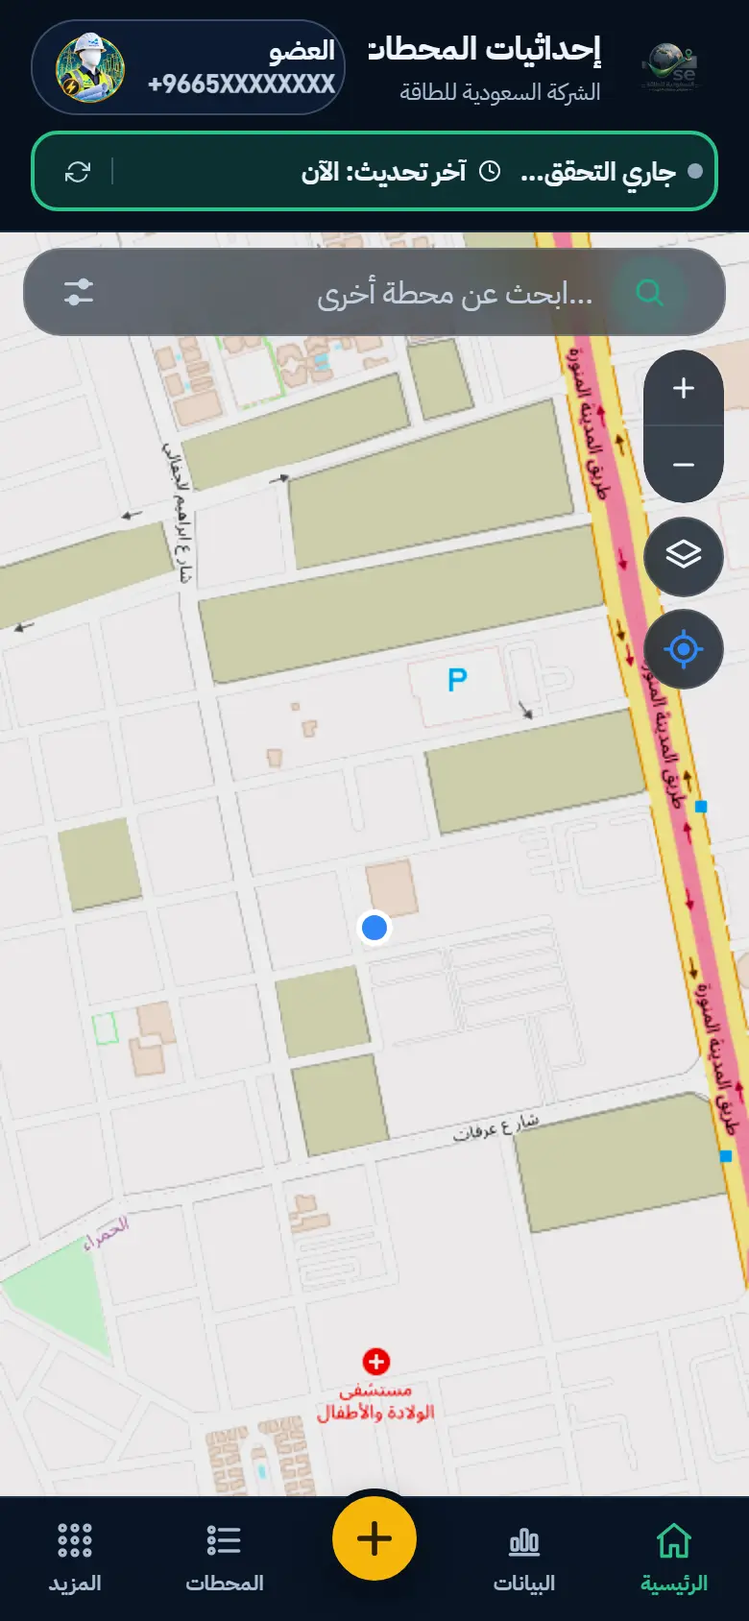
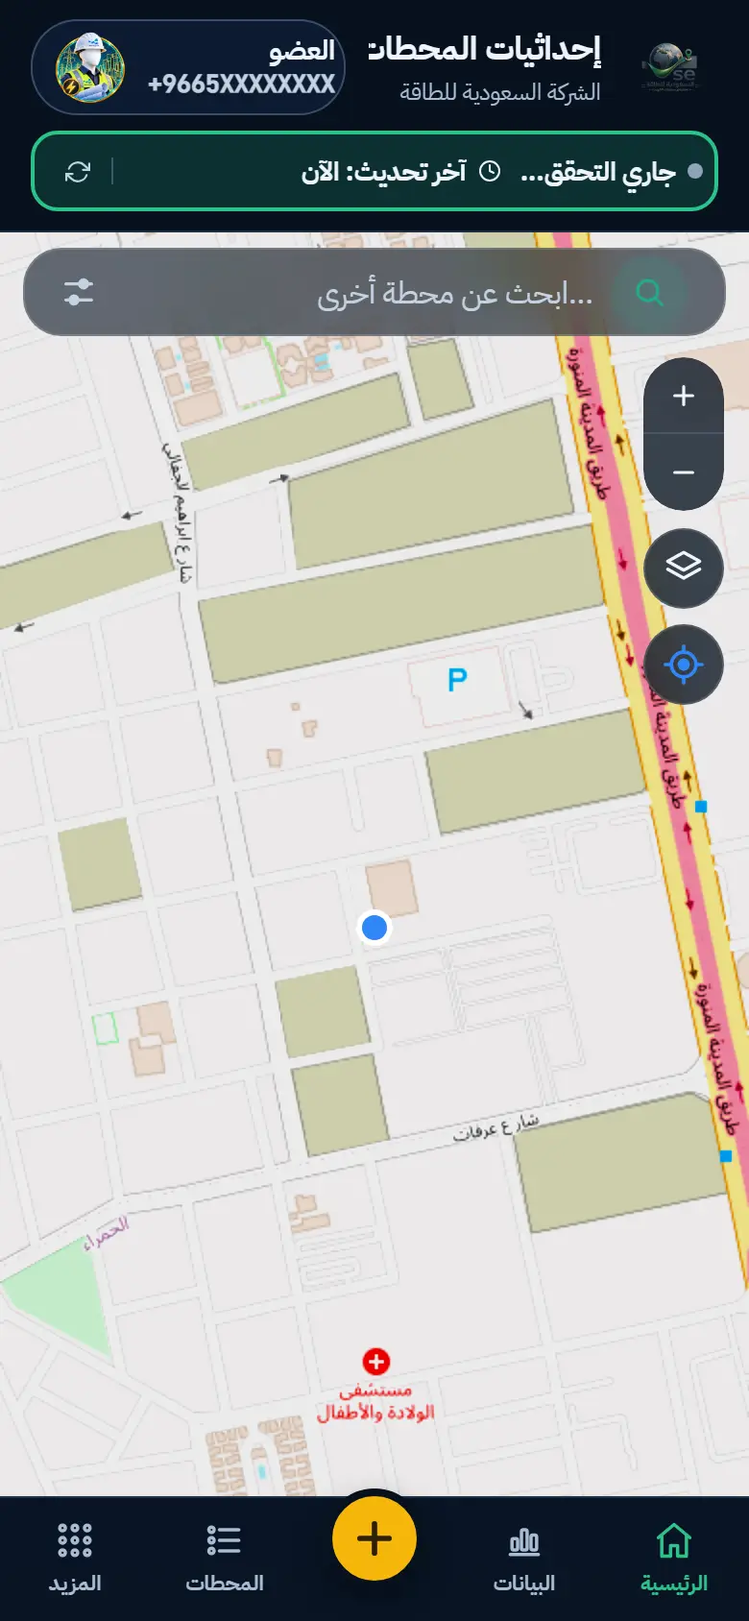
إعادة التصميم — مراجعة الاستخدام الميداني: بطاقة أقصر، عمود جانبي متكيّف، والمحطة لا تختفي
- البطاقة 158–165 نقطة (كانت 191): بلا مقبض، ومدة البحث شارة قصيرة في الرأس (الجملة الكاملة في title)، وحشو أقل
- «المسار» الأعرض والأبرز، و«تعديل» و«حذف» بمظهر هادئ، ومساحة اللمس ≥ 46
- العمود الجانبي عمود واحد بين ما يطفو أعلى الخريطة (البحث أو صف الأدوات) والبطاقة؛ عند الضيق يُخفى «+ / −» (التكبير
  بإصبعين) ثم زر الملاحة (المسار في البطاقة) — لا زر مغطى ولا تداخل مع الأدوات
- إعادة توسيط المحطة تلقائيًا حين يتغير ما يغطي الخريطة (الأدوات، اللوحات، البطاقة، التدوير) ما لم يحرّكها المستخدم
- البطاقة بعرض صحيح (width:auto) بهامشين متساويين؛ الجولة والاختبارات محدّثة

Changed region(s): [[0.8615, 0.2773, 0.9846, 0.4621], [0.8615, 0.2156, 0.9538, 0.2464]]

diff --git a/styles/home.css b/styles/home.css
@@ -294,7 +294,7 @@ body:not(.nav-full) .view-map .map-mode-panel,body:not(.nav-full) .view-map .map
 /* التكبير والتنبيه فوق البطاقة دائمًا — zoom and the toast always above the card */
 body:not(.nav-full) .view-map .map-toast{bottom:calc(var(--sheet-h, 0px) + 16px);}
 /* بطاقة المحطة عائمة أسفل الخريطة بخلفية زجاجية — the station card floats at the bottom on glass */
-body:not(.nav-full) .view-map .station-sheet{position:absolute;left:8px;right:8px;bottom:8px;margin:0;z-index:20;max-height:56%;overflow-y:auto;overscroll-behavior:contain;
+body:not(.nav-full) .view-map .station-sheet{position:absolute;left:8px;right:8px;width:auto;bottom:8px;margin:0;z-index:20;max-height:56%;overflow-y:auto;overscroll-behavior:contain;
   background:var(--glass-strong);border:1px solid var(--glass-line);-webkit-backdrop-filter:blur(16px) saturate(1.25);backdrop-filter:blur(16px) saturate(1.25);} /* أوضح فوق الخريطة النهارية / clearer over the day map */
 body:not(.nav-full) .view-map .station-sheet .sheet-meta{background:var(--glass-strong);border-color:var(--glass-line);}
 body:not(.nav-full) .view-map .station-sheet .sheet-foot{border-top-color:var(--glass-line);}
@@ -312,12 +312,17 @@ body:not(.nav-full) .view-map .toolbar-btn[data-tools="more"] .tb-icon{display:i
    أسفل يمين الخريطة فوق البطاقة. أدوات الشريط (قريب، مغذي، أعطال، ⋯) مطوية خلف «الأدوات» فلا تُحذف أي ميزة.
    Home = the map: a glass button column on the right under the search (direct navigation when a station is chosen, zoom,
    layers, tools) and «my location» bottom-right above the card. The toolbar tools fold behind «tools», no feature lost. */
-body:not(.nav-full) .view-map .map-stage-slot .globe-stage.map-active{padding-right:66px;}
+/* الأدوات واللوحات بعرض الخريطة كله؛ العمود الجانبي يبدأ تحتها (map-view fitSide) — the tools and panels take the full width; the column starts below them */
+body:not(.nav-full) .view-map .map-stage-slot .globe-stage.map-active{padding-right:12px;}
 /* العمود محصور بين البحث والبطاقة (نموذج محمد 20 أكتوبر): لا يُغطّى أبدًا؛ إن ضاقت المساحة تلتف الأزرار الزائدة إلى عمود ثانٍ
    بجانبه (يسارًا) بدل أن تختفي خلف البطاقة — the column is bounded between the search and the card: never covered; when short,
    the extra buttons wrap into a second column beside it (to the left) instead of hiding behind the card */
-body:not(.nav-full) .view-map .map-side{display:flex;flex-direction:column;flex-wrap:wrap;align-content:flex-start;align-items:center;gap:6px;position:absolute;
-  top:calc(var(--search-h, 46px) + 14px);bottom:calc(var(--sheet-h, 0px) + 10px);right:12px;z-index:12;}
+body:not(.nav-full) .view-map .map-side{display:flex;flex-direction:column;flex-wrap:nowrap;align-items:center;gap:8px;position:absolute;
+  top:calc(var(--search-h, 46px) + 14px);bottom:calc(var(--sheet-h, 0px) + 10px);right:12px;z-index:12;pointer-events:none;}
+body:not(.nav-full) .view-map .map-side > *{pointer-events:auto;}
+/* المساحة ضيقة: «+ / −» ثم زر الملاحة يُخفيان (map-view fitSide) — short space: «+ / −», then the navigation button, hide */
+body:not(.nav-full) .view-map .globe-stage.side-no-zoom .map-side .zoom-controls,
+body:not(.nav-full) .view-map .globe-stage.side-no-nav .map-side .side-nav{display:none;}
 body:not(.nav-full) .view-map .side-btn{display:flex;align-items:center;justify-content:center;width:42px;height:42px;padding:0;border-radius:50%;cursor:pointer;
   background:var(--glass-strong);border:1px solid var(--glass-line);color:var(--text-primary);-webkit-backdrop-filter:blur(12px);backdrop-filter:blur(12px);}
 body:not(.nav-full) .view-map .side-btn[hidden]{display:none;}
@@ -335,3 +340,5 @@ body:not(.nav-full) .view-map .map-side .zoom-controls{position:static;display:f
 body:not(.nav-full) .view-map .map-side .zoom-btn{width:42px;height:40px;background:var(--glass-strong);-webkit-backdrop-filter:blur(12px);backdrop-filter:blur(12px);}
 body:not(.nav-full) .view-map .map-locate{color:#2F86F6;}
 body:not(.nav-full) .view-map .globe-stage:not(.tools-open) .map-toolbar-bar{display:none;}
+body:not(.nav-full) .view-map .globe-stage.map-active > .map-side{pointer-events:none;} /* الشريط الفارغ بين الأزرار يمرّر السحب للخريطة / the empty strip passes drags to the map */
+body:not(.nav-full) .view-map .map-side > *{flex-shrink:0;} /* لا تنضغط الأزرار؛ الضيق يُعالج بإخفاء «+ / −» ثم الملاحة / buttons never squeeze; short space hides «+ / −», then navigation */

diff --git a/config/جولة_تعريفية.js b/config/جولة_تعريفية.js
@@ -34,13 +34,13 @@
       { img: 'assets/tour/06-state-offline.webp', rect: { x: 0, y: 68, w: 390, h: 52 },
         title: '🔴 أحمر: لا يوجد اتصال بالإنترنت',
         text: 'إذا انقطع الإنترنت يتحول الشريط إلى الأحمر ويذكر آخر وقت حُدّثت فيه نسختك — والبحث والخريطة والملاحة تعمل منها.\nوإن لم تكن على الجهاز نسخة يقول ذلك صراحة: «لا توجد نسخة ولا يوجد إنترنت».' },
-      { img: 'assets/tour/07-search-server.webp', rect: { x: 5, y: 736, w: 364, h: 25 },
+      { img: 'assets/tour/07-search-server.webp', rect: { x: 19, y: 609, w: 93, h: 17 },
         title: '⏱ البحث قبل تحميل النسخة',
-        text: 'قبل اكتمال النسخة يذهب البحث إلى الخادم وينتظر رده — وتظهر المدة الفعلية ومصدرها أسفل بطاقة المحطة.\nوبدون إنترنت لا يمكن البحث قبل تحميل النسخة.' },
-      { img: 'assets/tour/08-search-local.webp', rect: { x: 5, y: 736, w: 364, h: 25 },
+        text: 'قبل اكتمال النسخة يذهب البحث إلى الخادم وينتظر رده — وتظهر المدة الفعلية ومصدرها «الخادم» في رأس بطاقة المحطة.\nوبدون إنترنت لا يمكن البحث قبل تحميل النسخة.' },
+      { img: 'assets/tour/08-search-local.webp', rect: { x: 19, y: 609, w: 105, h: 17 },
         title: '⚡ البحث بعد تحميل النسخة',
-        text: 'بعد التحميل تظهر النتيجة من جهازك في جزء من الألف من الثانية — «من نسخة جهازك» — حتى بدون إنترنت.\nوالنسخة تتحدث تلقائيًا بتغييرات الزملاء.' },
-      { img: 'assets/tour/09-station-sheet.webp', rect: { x: 0, y: 550, w: 382, h: 222 }, point: { x: 6, y: 626, w: 121, h: 44 },
+        text: 'بعد التحميل تظهر النتيجة من جهازك في جزء من الألف من الثانية — «⚡ … ث · جهازك» في رأس البطاقة — حتى بدون إنترنت.\nوالنسخة تتحدث تلقائيًا بتغييرات الزملاء.' },
+      { img: 'assets/tour/09-station-sheet.webp', rect: { x: 8, y: 600, w: 374, h: 172 }, point: { x: 20, y: 668, w: 117, h: 39 },
         title: '📍 بطاقة المحطة فوق الخريطة',
         text: 'الخريطة بكامل الصفحة والمحطة في منتصف الجزء الظاهر منها، وأسفلها بطاقة مختصرة: النوع والرقم، والمغذي والمنطقة وعدد محطات المغذي، وصف أزرار المسار وقوقل ماب والمشاركة والتعديل.\nاضغط «عدد محطات المغذي» لتظهر على الخريطة، و«آخر تحديث» للنسخة تجده في «التفاصيل».' },
       { img: 'assets/tour/10-details.webp', rect: { x: 16, y: 279, w: 358, h: 52 },
@@ -52,10 +52,10 @@
       { img: 'assets/tour/12-outages-input.webp', rect: { x: 16, y: 455, w: 358, h: 285 }, point: { x: 261, y: 455, w: 113, h: 96 },
         title: '⚡ بحث الأعطال: أرقام عدة محطات',
         text: 'في «البيانات» اضغط بطاقة «الأعطال»، فتظهر تحتها خانة الأرقام.\nاكتب أرقام المحطات التي فيها العطل (حتى 15 محطة) وافصل بينها بمسافة أو فاصلة، ثم اضغط بحث.' },
-      { img: 'assets/tour/13-outages-map.webp', rect: { x: 79, y: 219, w: 178, h: 33 },
+      { img: 'assets/tour/13-outages-map.webp', rect: { x: 106, y: 219, w: 178, h: 33 },
         title: '🗺 نتيجة بحث الأعطال على الخريطة',
         text: 'تظهر المحطات بالأحرف A ثم B ثم C بترتيب كتابتك، مع خط يربطها.\nوزر «الانتقال بالترتيب على قوقل ماب» يفتح مسارًا جاهزًا يمر بها كلها.' },
-      { img: 'assets/tour/14-ruler.webp', rect: { x: 12, y: 226, w: 312, h: 96 },
+      { img: 'assets/tour/14-ruler.webp', rect: { x: 12, y: 226, w: 366, h: 96 },
         title: '📐 قياس المسافة على الخريطة',
         text: 'اضغط أيقونة الأدوات في طرف مربع البحث، ثم «⋯» في صف الأدوات، ثم «📐 قياس المسافة».\nثم اضغط على نقطتين أو أكثر في الخريطة، فيظهر طول كل جزء والمسافة الإجمالية.' },
       { img: 'assets/tour/15-nav-online.webp', rect: { x: 0, y: 708, w: 390, h: 136 },

diff --git a/components/map-view.js b/components/map-view.js
@@ -91,7 +91,7 @@
    *   onNavigate() (زر الملاحة في العمود)، onLocate() (زر «موقعي»)، onOverlayChange() (فتح/طي الأدوات)، now() للاختبار }
    * يُرجع { map، mode()، resolvedMode()، setMode(m)، showStation(s)، clearStation()، tools (مكان الأزرار)، panels،
    *   hint(text)، hideHint()، toast(text)، usingOffline()، refresh()، destroy()، setInsets(top, bottom)، centerOn(latlng, zoom, fly)،
-   *   fitPadding(pad)، insets()، showMe(pos)، setNavTarget(on)، toggleTools(open) }
+   *   fitPadding(pad)، insets()، showMe(pos)، setNavTarget(on)، toggleTools(open)، recenter()، fitSide(topMin, bottom) }
    */
   function mount(stage, opts) {
     const o = opts || {};
@@ -199,9 +199,34 @@
       const i = current_(), dy = (i.bottom - i.top) / 2;
       return dy ? map.unproject(map.project(latlng, zoom).add([0, dy]), zoom) : L.latLng(latlng);
     }
+    /* النقطة المتوسَّطة تبقى في منتصف المساحة المرئية كلما تغيّر ما يغطي الخريطة (فتح الأدوات، تغيّر البطاقة، تدوير الجوال)،
+     * إلا إذا حرّك المستخدم الخريطة بنفسه بعدها — the centered point stays mid visible area whenever what covers the map changes,
+     * unless the user moved the map since */
+    let focus = null, internal = false;
+    const FLY_MS = 1600;
+    map.on('movestart', function () { if (!internal) focus = null; });
+    function move_(fn) { internal = true; try { fn(); } finally { internal = false; } }
     function centerOn(latlng, zoom, fly) {
       const z = zoom == null ? map.getZoom() : zoom, c = visibleCenter_(latlng, z);
-      if (fly) map.flyTo(c, z, { duration: 1.4 }); else map.setView(c, z);
+      move_(function () { if (fly) map.flyTo(c, z, { duration: 1.4 }); else map.setView(c, z); });
+      focus = { ll: L.latLng(latlng), t: Date.now() };
+    }
+    function recenter() {
+      if (!focus || Date.now() - focus.t < FLY_MS) return; // أثناء الطيران لا يُقاطَع / never cuts a fly
+      const z = map.getZoom(), want = map.project(visibleCenter_(focus.ll, z), z), now = map.project(map.getCenter(), z);
+      if (want.distanceTo(now) > 3) move_(function () { map.setView(map.unproject(want, z), z, { animate: false }); });
+    }
+    /* العمود الجانبي بين ما يطفو أعلى الخريطة والبطاقة، عمود واحد دائمًا: إن ضاقت المساحة يُخفى «+ / −» أولًا (التكبير بإصبعين
+     * متاح)، ثم زر الملاحة (زر «المسار» في البطاقة) — لا زر يُغطّى ولا عمود ثانٍ فوق الأدوات.
+     * The side column between what floats on top and the card, always one column: when short, «+ / −» hide first (pinch
+     * zoom stays), then the navigation button («route» on the card) — no button covered, no second column over the tools. */
+    function fitSide(topMin, bottom) {
+      const side = q('side');
+      side.style.top = Math.round(Math.max(topMin, overlayTop_() - INSET_GAP + 8)) + 'px';
+      side.style.bottom = Math.round(bottom) + 'px';
+      stage.classList.remove('side-no-zoom', 'side-no-nav');
+      if (side.scrollHeight > side.clientHeight + 1) stage.classList.add('side-no-zoom');
+      if (side.scrollHeight > side.clientHeight + 1) stage.classList.add('side-no-nav');
     }
     /* حشوة fitBounds بما يغطي الخريطة — fitBounds padding including what covers the map */
     function fitPadding(pad) { const p = pad || 0, i = current_(); return { paddingTopLeft: [p, p + i.top], paddingBottomRight: [p, p + i.bottom] }; }
@@ -283,7 +308,7 @@
       map: map, tools: q('tools'), panels: q('panels'),
       mode: function () { return mode; }, resolvedMode: resolved, setMode: setMode, refresh: apply,
       usingOffline: function () { return offlineFlavor !== null; },
-      showStation: showStation, clearStation: clearStation, setInsets: setInsets, centerOn: centerOn, fitPadding: fitPadding,
+      showStation: showStation, clearStation: clearStation, setInsets: setInsets, centerOn: centerOn, fitPadding: fitPadding, recenter: recenter, fitSide: fitSide,
       insets: current_, hint: hint, hideHint: hideHint, toast: toast, showMe: showMe, setNavTarget: setNavTarget,
       toggleTools: toggleTools_,
       destroy: function () {

diff --git a/components/station-card.js b/components/station-card.js
@@ -52,10 +52,13 @@
     // أقل من 1 ملي ثانية يُكتب «أقل من 0.001 ث» بدل «0.000 ث» — under 1 ms reads «under 0.001 s», not «0.000 s»
     // الرقم وحده باتجاه اليسار، والوحدة «ث» بعده بالعربي فيُقرأ «2.56 ث» لا «ث 2.56» — the number alone is LTR, the unit follows in RTL
     const sec = (ms < 1 ? 'أقل من <b dir="ltr">0.001</b>' : '<b dir="ltr">' + (ms / 1000).toFixed(ms < 100 ? 3 : 2) + '</b>') + ' ث';
-    if (s.source === 'local') return '<div class="st-search-time local" data-role="search-time">⚡ وُجدت في ' + sec + ' — من نسخة جهازك</div>';
-    // محطة مضافة حديثًا لم تصل لنسخة الجهاز بعد ← من الخادم مباشرة (النسخة تتحدّث بالخلفية) — newly added, not yet in the copy
-    if (s.newOnServer) return '<div class="st-search-time server" data-role="search-time">⏱ وُجدت في ' + sec + ' — من الخادم (محطة مضافة حديثًا، تُضاف لنسخة جهازك تلقائيًا)</div>';
-    return '<div class="st-search-time server" data-role="search-time">⏱ وُجدت في ' + sec + ' — من الخادم · حمّل البيانات المؤقتة لبحث فوري</div>';
+    // شارة قصيرة في رأس البطاقة (المدة والمصدر)، والجملة الكاملة في title وaria-label — a short chip in the card head, the full sentence in title/aria-label
+    const full = s.source === 'local' ? 'وُجدت في ' + sec.replace(/<[^>]+>/g, '') + ' — من نسخة جهازك'
+      : s.newOnServer ? 'وُجدت في ' + sec.replace(/<[^>]+>/g, '') + ' — من الخادم (محطة مضافة حديثًا، تُضاف لنسخة جهازك تلقائيًا)'
+        : 'وُجدت في ' + sec.replace(/<[^>]+>/g, '') + ' — من الخادم · حمّل البيانات المؤقتة لبحث فوري';
+    const local = s.source === 'local';
+    return '<span class="st-search-time ' + (local ? 'local' : 'server') + '" data-role="search-time" title="' + full + '" aria-label="' + full + '">' +
+      (local ? '⚡ ' : '⏱ ') + sec + ' · ' + (local ? 'جهازك' : 'الخادم') + '</span>';
   }
 
   /* إعادة التصميم — المرحلة ج (19 أكتوبر، نموذج محمد): لوحة مدمجة تحت الخريطة بدل جزأين فوقها وتحتها، فتأخذ الخريطة
@@ -89,13 +92,13 @@
     const coords = Q.hasCoordinates(s), sub = s.type === 'تحويل', kind = sub ? 'is-sub' : 'is-dist';
     const fc = feederCount_(s, deps);
     return '<div class="sb-inner sb-top">' +
-      '<span class="sheet-handle" aria-hidden="true"></span>' +
       '<div class="sheet-head">' +
         '<div class="sheet-line">' +
           '<span class="sheet-badge ' + kind + '" aria-hidden="true">' + (TYPE_ICON[s.type] || TYPE_ICON['توزيع']) + '</span>' +
           '<div class="sheet-title"><span class="sheet-type ' + kind + '">' + (sub ? 'محطة تحويل' : 'محطة توزيع') + '</span>' +
             '<bdi class="sheet-id">' + esc(s.id) + '</bdi></div>' +
-          (deps && deps.onDetails ? '<button type="button" class="sheet-more" data-act="details">التفاصيل ‹</button>' : '') +
+          '<div class="sheet-side">' + searchTime_(s) +
+            (deps && deps.onDetails ? '<button type="button" class="sheet-more" data-act="details">التفاصيل ‹</button>' : '') + '</div>' +
         '</div>' +
         ((s.feeder || s.region || fc != null) ? '<div class="sb-data-row sheet-meta">' +
           (s.feeder ? '<div class="sb-data-cell"><div class="cell-label">المغذي</div><div class="cell-value">' + esc(s.feeder) + '</div></div>' : '') +
@@ -138,7 +141,6 @@
       '</div>' +
       // مدة البحث ومصدره تبقى في البطاقة، و«آخر تحديث» لنسخة المحطات انتقل إلى «التفاصيل» (قرار محمد 20 أكتوبر)
       // The search time/source stays on the card; the copy's «last update» moved to «details» (Mohammed, 20 Oct)
-      (searchTime_(s) ? '<div class="sheet-foot">' + searchTime_(s) + '</div>' : '') +
     '</div>';
   }
 

diff --git a/styles/station-card.css b/styles/station-card.css
@@ -248,3 +248,33 @@ body.nav-full .station-sheet{display:none !important;}
 @media (max-width:359px){ .station-table.station-sheet .sheet-actions .st-btn .st-lbl{font-size:10.5px;} }
 .station-sheet .sheet-foot{margin-top:6px;padding-top:6px;}
 .station-sheet .sheet-foot .st-search-time{font-size:12px;}
+
+/* ===== البطاقة أقصر (مراجعة الاستخدام الميداني 20 أكتوبر) =====
+   بلا مقبض، ومدة البحث شارة قصيرة فوق «التفاصيل»، وحشو أقل؛ «المسار» الأعرض والأبرز، ثم قوقل ماب والمشاركة، و«تعديل»
+   و«حذف» (للمدير) بمظهر هادئ — ومساحة اللمس لا تقل عن 46 نقطة.
+   Shorter card (field-use review): no handle, the search time a short chip above «details», less padding; «route» the
+   widest and boldest, then maps and share, «edit» and «delete» (admin) quieter — touch targets stay at least 46px. */
+.sheet-handle{display:none;}
+.station-sheet .sb-inner{padding:8px 10px 8px;}
+.station-sheet .sb-top{padding-bottom:6px;}
+.station-sheet .sb-bottom{padding-top:0;}
+.sheet-head{gap:6px;}
+.sheet-badge{width:38px;height:38px;border-radius:11px;}
+.sheet-badge svg{width:21px;height:21px;}
+.sheet-line .sheet-type{font-size:12.5px;}
+.sheet-title .sheet-id{font-size:22px;}
+.sheet-side{display:flex;flex-direction:column;align-items:flex-end;gap:4px;flex-shrink:0;}
+.station-sheet .sheet-side .st-search-time{display:block;margin:0;font-size:11.5px;font-weight:600;white-space:nowrap;color:var(--text-secondary);}
+.station-sheet .sheet-side .st-search-time b{font-size:11.5px;}
+.sheet-side .sheet-more{padding:3px 10px;font-size:12.5px;}
+.station-sheet .sheet-meta .sb-data-cell{padding:4px 4px;}
+.station-sheet .sheet-meta .cell-label{font-size:11.5px;margin-bottom:0;}
+.station-sheet .sheet-meta .cell-value{font-size:14px;}
+.station-sheet .sheet-actions{display:flex;gap:6px;}
+.station-table.station-sheet .sheet-actions .st-btn{flex:1 1 0;min-height:46px;padding:4px 1px;}
+.station-table.station-sheet .sheet-actions .st-btn.st-main{flex:1.7 1 0;font-size:13.5px;}
+.station-table.station-sheet .sheet-actions .st-btn.st-main .st-lbl{font-size:13.5px;}
+.station-table.station-sheet .sheet-actions .st-edit{background:var(--bg-card);border-color:var(--border-strong);color:var(--text-secondary);}
+.station-table.station-sheet .sheet-actions .st-edit .st-ico{color:var(--c-ops-fg);}
+.station-table.station-sheet .sheet-actions .st-danger{background:var(--bg-card);border-color:var(--border-strong);color:var(--text-secondary);}
+.station-table.station-sheet .sheet-actions .st-danger .st-ico{color:var(--danger);}

diff --git a/pages/home.js b/pages/home.js
@@ -141,8 +141,10 @@
     hero.style.setProperty('--search-h', Math.round($('topContentArea').offsetHeight) + 'px');
     hero.style.setProperty('--sheet-h', Math.round(sheet) + 'px');
     // أدوات الخريطة العائمة تقيسها الخريطة بنفسها لحظة التوسيط — the map measures its own floating tools when centering
-    view.setInsets($('topContentArea').getBoundingClientRect().bottom - hr.top + MAP_GAP, sheet ? sheet + MAP_GAP : 0);
-    global.requestAnimationFrame(function () { view.map.invalidateSize(); });
+    const searchBottom = $('topContentArea').getBoundingClientRect().bottom - hr.top;
+    view.setInsets(searchBottom + MAP_GAP, sheet ? sheet + MAP_GAP : 0);
+    view.fitSide(searchBottom + 10, sheet + 10); // العمود بين البحث (أو الأدوات) والبطاقة / the column between the search (or tools) and the card
+    global.requestAnimationFrame(function () { view.map.invalidateSize(); view.recenter(); }); // المحطة تبقى في المنتصف المرئي / the station stays mid visible
   }
   function ensureMap_() {
     if (view) return view;
@@ -172,6 +174,8 @@
     if (global.ResizeObserver) {
       const ro = new global.ResizeObserver(function () { global.requestAnimationFrame(layout); });
       ro.observe($('topContentArea')); ro.observe($('mapStage').querySelector('.map-toolbar-bar')); ro.observe($('stationTable'));
+      // لوحات الأدوات والتلميح تطفو فوق الخريطة: ظهورها يعيد حدود العمود والتوسيط — the tool panels and hint float over the map
+      $('mapStage').querySelectorAll('.map-mode-panel, .map-tool-hint, .map-panels > *').forEach(function (el) { ro.observe(el); });
     }
     return view;
   }
